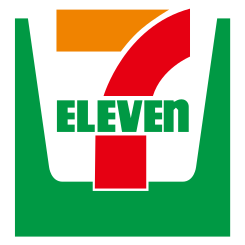
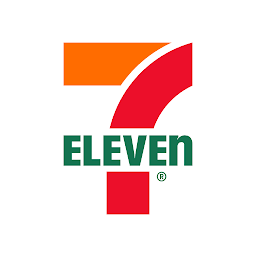
Improve marker popup style, images & behavior

diff --git a/src/styles/mapstyles.css b/src/styles/mapstyles.css
@@ -1,46 +1,14 @@
+#map {
+    font-family: var(--system-ui);
+}
+
 img {
     display: block;
     width: 100%;
     height: auto;
-}   
-
-.btn-markers {
-    margin: 5px;
-    padding: 8px 12px;
-    background: #0078A8;
-    color: white;
-    border: none;
-    border-radius: 4px;
-    cursor: pointer;
-    font-size: 14px;
 }
 
-.btn-markers:hover {
-    background: #005580;
-}
-
-.add-button {
-    background: #28a745;
-}
-
-.add-button:hover {
-    background: #218838;
-}
-
-.remove-button {
-    background: #dc3545;
-}
-
-.remove-button:hover {
-    background: #c82333;
-}
-
-/* Layers */
-.bike-lanes-layer img {
-
-}
-
-/* Bottom right map controls */
+/* BOTTOM RIGHT MAP CONTROLS */
 .leaflet-bottom.leaflet-right {
     margin: 10px;
     display: flex;
@@ -71,7 +39,7 @@ img {
     animation: border-pulse 2s infinite;
 }
 
-.gps-button.leaflet-control.inactive:hover {
+.gps-button.leaflet-control:hover {
     filter: brightness(1.2);
     transition: 0.3s ease;
 }
@@ -120,7 +88,7 @@ img {
     .layer-control-image:hover {
         opacity: 1;
     }
-    .gps-button.leaflet-control.inactive:hover {
+    .gps-button.leaflet-control:hover {
         filter: none;
     }
 }
@@ -134,7 +102,7 @@ img {
     display: none;
 }
 
-/* Points on the map */
+/* MARKERS */
 .gps-icon {
     z-index: 100000000 !important;
 }
@@ -158,7 +126,31 @@ img {
   }
 }
 
-/* Attribution */
+.leaflet-popup-content-wrapper,
+.leaflet-popup-tip-container > .leaflet-popup-tip {
+    border-radius: var(--border-radius-windows);
+    border: 2px solid rgba(0, 0, 0, 0.2);
+    box-shadow: 0 0 0 0 rgba(255, 0, 0, 0);
+}
+
+.leaflet-popup-content {
+    padding: 20px;
+    margin: auto;
+}
+
+.leaflet-popup-content .image-wrapper {
+    height: 100px;
+    width: 100px;
+    margin: auto;
+}
+
+.leaflet-popup-content p {
+    font-weight: bold;
+    line-break: auto;
+    user-select: text;
+}
+
+/* ATTRIBUTION */
 .leaflet-control-attribution.leaflet-control {
     position: fixed;
     bottom: 0;

diff --git a/src/scripts/mapUtilities/points.js b/src/scripts/mapUtilities/points.js
@@ -26,25 +26,32 @@ export function addMarkers(map) {
     repair: repairIcon,
   };
 
+                                              
+
   // Create feature groups for each category
   const featureGroups = {};
 
   // Initialize feature groups and add markers
   Object.keys(imagesDescsLinks).forEach((category) => {
-    featureGroups[category] = new L.FeatureGroup();
+    featureGroups[category] = new L.FeatureGroup(); 
 
     imagesDescsLinks[category].forEach((item) => {
+      var markerPopup = L.popup({
+        content: `
+            ${item.imageSrc ? `<div class="image-wrapper"><img src="${item.imageSrc}" alt="Location image"></div>` : ''}
+            <p>${item.desc}</p>
+            ${item.link ? `<a href="${item.link}" target="_blank">Google Maps</a>` : ''}
+        `,
+        minWidth: 150,
+        maxWidth: 150,
+        closeButton: false,
+        autoPanPaddingTopLeft: [10, 80],
+        autoPanPaddingBottomRight: [10, 10,]
+      });
+
       const marker = L.marker([item.lat, item.lng],
         { icon: createIcon(categoryImages[category] || 'gray')}
-      ).bindPopup(`
-          <div>
-            <h3>${category.toUpperCase()}</h3>
-            ${item.imageSrc ? `<img src="${item.imageSrc}" style="max-width: 200px; max-height: 150px;" alt="Location image">` : ''}
-            <p>${item.desc}</p>
-            ${item.link ? `<a href="${item.link}" target="_blank">More info</a>` : ''}
-            <p><small>Lat: ${item.lat.toFixed(6)}, Lng: ${item.lng.toFixed(6)}</small></p>
-          </div>
-        `);
+      ).bindPopup(markerPopup);
 
       markerCluster.addLayer(marker);
 

diff --git a/src/scripts/mapUtilities/pointsData.js b/src/scripts/mapUtilities/pointsData.js
@@ -1,10 +1,10 @@
 import shuuri from '../../img/shuuri.png';
+import konbini from '../../img/konb.png';
 import eleven from '../../img/7eleven.png';
 import family from '../../img/familymart.png';
-import yamazaki from '../../img/dailyyamazaki.png';
-import ministop from '../../img/ministop.JPG';
+import yamazaki from '../../img/yamazaki.jpg';
+import ministop from '../../img/ministop.png';
 import lawson from '../../img/lawson.png';
-import konbini from '../../img/konb.jpg';
 
 export const imagesDescsLinks = {
   konbinis: [
